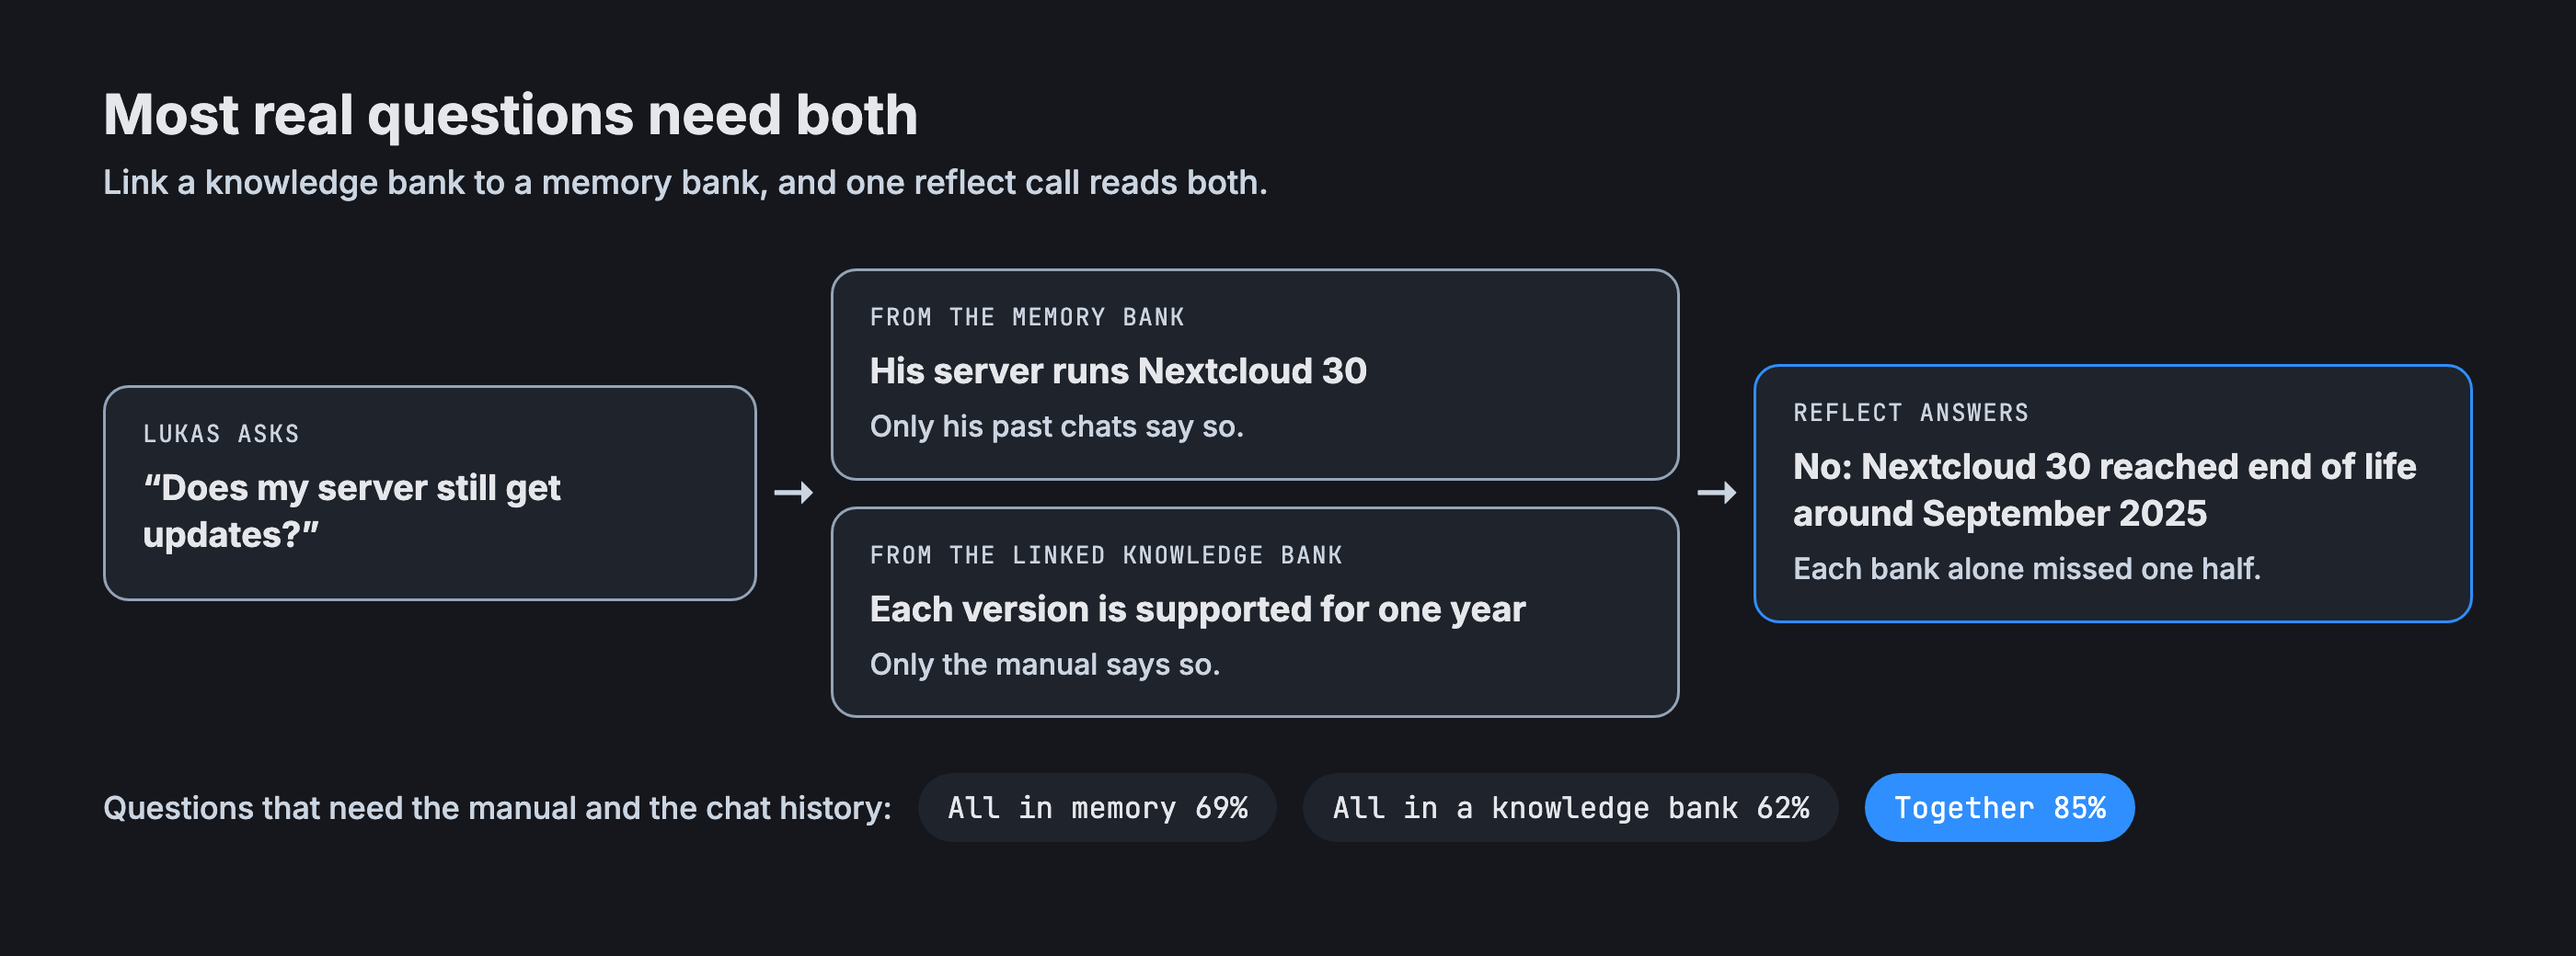
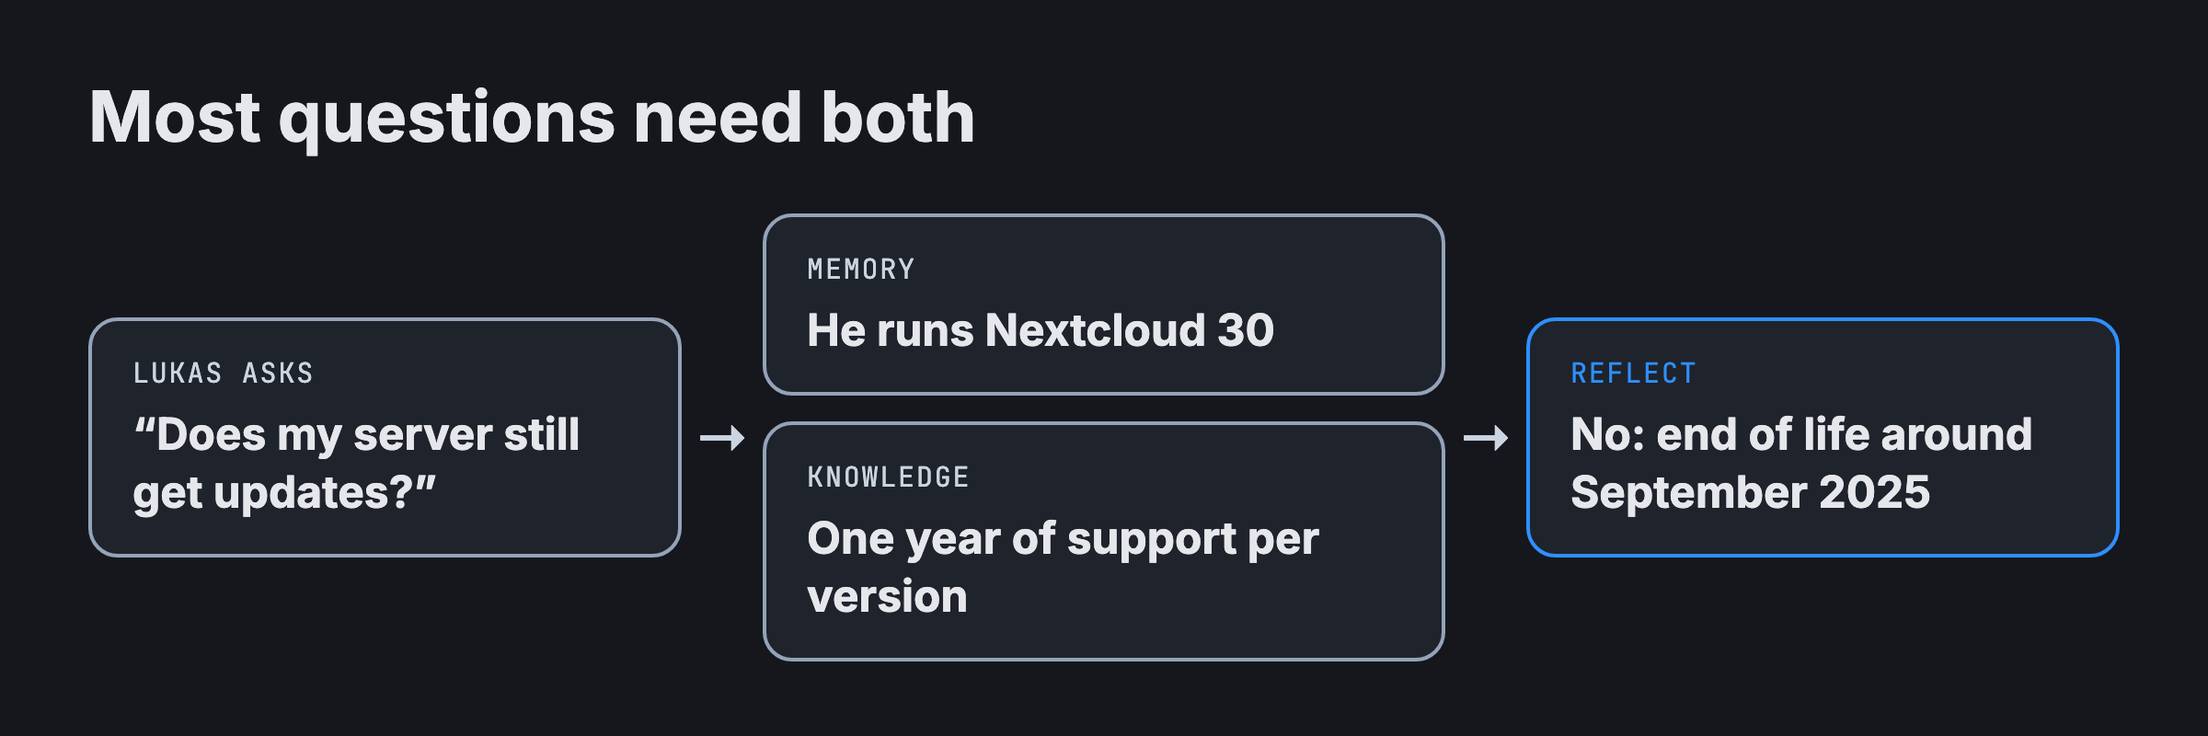
docs(blog): drop the trade-offs section; bigger diagrams with fewer words, shown wide

Changed region(s): [[0.0312, 0.2812, 0.9688, 0.9062], [0.0312, 0.0938, 0.5, 0.2188], [0.0625, 0.75, 0.3125, 0.7812]]

diff --git a/hindsight-docs/blog/2026-11-24-knowledge-banks.md b/hindsight-docs/blog/2026-11-24-knowledge-banks.md
@@ -26,7 +26,11 @@ import TabItem from '@theme/TabItem';
 
 ## Why memory
 
+<div className="post-wide">
+
 <ThemedImage alt={"A memory bank turns a chat into facts and observations that update"} sources={{light: "/img/blog/knowledge-banks/why-memory-light.png", dark: "/img/blog/knowledge-banks/why-memory-dark.png"}} />
+
+</div>
 
 A memory bank is built to change its mind. Retain sends what your agent hears to an LLM, which pulls out facts, people and dates. Consolidation folds them into observations, and updates them when something new comes in. Ask about a customer and you get what's true about them now, not a pile of old chat logs.
 
@@ -34,7 +38,11 @@ That's exactly right for a person's history. It's wrong for a manual. A manual s
 
 ## Why knowledge
 
+<div className="post-wide">
+
 <ThemedImage alt={"A knowledge bank splits files into passages and returns the page or the second"} sources={{light: "/img/blog/knowledge-banks/why-knowledge-light.png", dark: "/img/blog/knowledge-banks/why-knowledge-dark.png"}} />
+
+</div>
 
 A knowledge bank does the opposite: it never changes what you give it. A PDF stays a PDF, one passage per page, as image and text. A video is split into short clips. A search returns the paragraph with the text around it, and points to its page or its second in the original file. Nothing is summarised or rewritten, and no LLM reads it at ingest.
 
@@ -42,7 +50,11 @@ That's exactly right for a manual. It's wrong for a person. A knowledge bank doe
 
 ## Why together
 
+<div className="post-wide">
+
 <ThemedImage alt={"One reflect call combines Lukas's version from memory with the support policy from the manual"} sources={{light: "/img/blog/knowledge-banks/why-together-light.png", dark: "/img/blog/knowledge-banks/why-together-dark.png"}} />
+
+</div>
 
 Most real questions need both. "Does my server still get updates?" needs the customer's version, which is in memory, and the support policy, which is in the manual. "How long do you keep my activity log?" has one answer in the manual, and a different one for Amara, whose account has an approved exception.
 
@@ -50,7 +62,11 @@ So link them. Add a knowledge bank to a memory bank's config, and reflect search
 
 ### Isn't this just RAG next to memory?
 
+<div className="post-wide">
+
 <ThemedImage alt={"A vector store next to memory, against a knowledge bank linked to a memory bank"} sources={{light: "/img/blog/knowledge-banks/rag-vs-link-light.png", dark: "/img/blog/knowledge-banks/rag-vs-link-dark.png"}} />
+
+</div>
 
 You could put a vector store beside your memory and search both. Three things make a link different:
 
@@ -68,7 +84,11 @@ We ran it three ways, with the same model (Gemma 4 26B) answering through reflec
 - **All in a knowledge bank:** everything is kept as documents.
 - **Together:** the chats go into the memory bank, and the manuals and exception notes go into a linked knowledge bank.
 
+<div className="post-wide">
+
 <ThemedImage alt={"SupportBench scores by kind of question for the three setups"} sources={{light: "/img/blog/knowledge-banks/supportbench-categories-light.png", dark: "/img/blog/knowledge-banks/supportbench-categories-dark.png"}} />
+
+</div>
 
 Each setup fails where you'd expect. All in memory loses the manual's exact wording (81% on questions the manual alone answers). All in a knowledge bank keeps the manual but can't put a customer's history together (62% when an answer needs both, 61% on exceptions). Together gets both. The one place it doesn't help is a chat that contradicts the manual: 73%, the same as memory alone (19 of 26).
 
@@ -113,7 +133,11 @@ Two customers ask the exact same question, and only Amara has an exception. Both
 
 ## How it works
 
+<div className="post-wide">
+
 <ThemedImage alt={"Ingest splits each kind of file; search runs by meaning and rare words, reranks and fills the token budget"} sources={{light: "/img/blog/knowledge-banks/how-it-works-light.png", dark: "/img/blog/knowledge-banks/how-it-works-dark.png"}} />
+
+</div>
 
 **Ingest: every file split its own way, then embedded as it is.** A PDF becomes one passage per page: the page as an image, and its text layer next to it (a scanned page has no text layer and is found by its picture). Audio and video become short overlapping clips. Text and Office files become passages that keep a heading with the content under it. Every passage goes through the same embedding model, so a question in text can land on a page image or the 2:40 mark of a video. Nothing is OCR'd, summarised or rewritten.
 
@@ -163,7 +187,11 @@ Memexa v2's recall counts the items it passes to its answer model, which may not
 
 ## A fraction of the cost
 
+<div className="post-wide">
+
 <ThemedImage alt={"LLM cost to fill, hosted search price, and Hindsight Inference prices"} sources={{light: "/img/blog/knowledge-banks/cost-light.png", dark: "/img/blog/knowledge-banks/cost-dark.png"}} />
+
+</div>
 
 **Filling it: no LLM.** A knowledge bank costs only the embedding. On the support benchmark, putting the manuals into a memory bank cost **$0.95** in LLM calls, because retain reads every page. With the manuals in a knowledge bank and only the chats in memory, it cost **$0.34**: about 3× cheaper, and it scored higher. The linked setup sends the agent more context, so a question costs more: $0.00059 against $0.00031 with memory alone. On LLM spend, memory alone only catches up after about 2,200 questions.
 
@@ -177,14 +205,6 @@ Both models a knowledge bank needs are now on [Hindsight Inference](https://infe
 - **`hs-decide-1-flash-mm`:** our decision reranker, for text and images. Reranking 1,000 PDF pages costs about $0.11.
 
 Point a self-hosted server at them and you get a knowledge bank without running a model yourself. See [Configuration](/next/developer/configuration#knowledge-banks) for the settings.
-
-### The trade-offs
-
-- **Not first everywhere, and the leads are small.** Mixedbread with its reranker is ahead on ViDoRe V3, by 1.5 points on the raw PDFs and 3.7 on page text. Our leads are 1.8 points over Conare on contracts, 0.8 over Memexa v2 on ATM-Bench, and 0.6 over Cohere with its reranker on the raw PDFs. Each score is one run, and the reranker moves results between runs, so read a lead under a couple of points as a tie at the top.
-- **Contradictions are still the hardest case.** When an old chat confidently contradicts the manual, the linked setup gets 73% right, no better than memory alone. Documents win when the agent finds both; it doesn't always find both.
-- **Our scores use a reranker.** Every search score above is reranked by `hs-decide-1-flash-mm`. You can [plug in your own](/next/developer/knowledge-banks#searching) (any service that speaks Cohere's rerank API, pictures included). We haven't published scores without one.
-- **Pick the embedder before you fill the bank.** Every passage is stored as a vector of the model's size. Switching to a model of another size means ingesting again.
-- **Video and audio take time to ingest.** Decoding clips is the slow part: a one-hour video takes about a minute on a GPU. You can turn either off per bank.
 
 ## Try it
 
